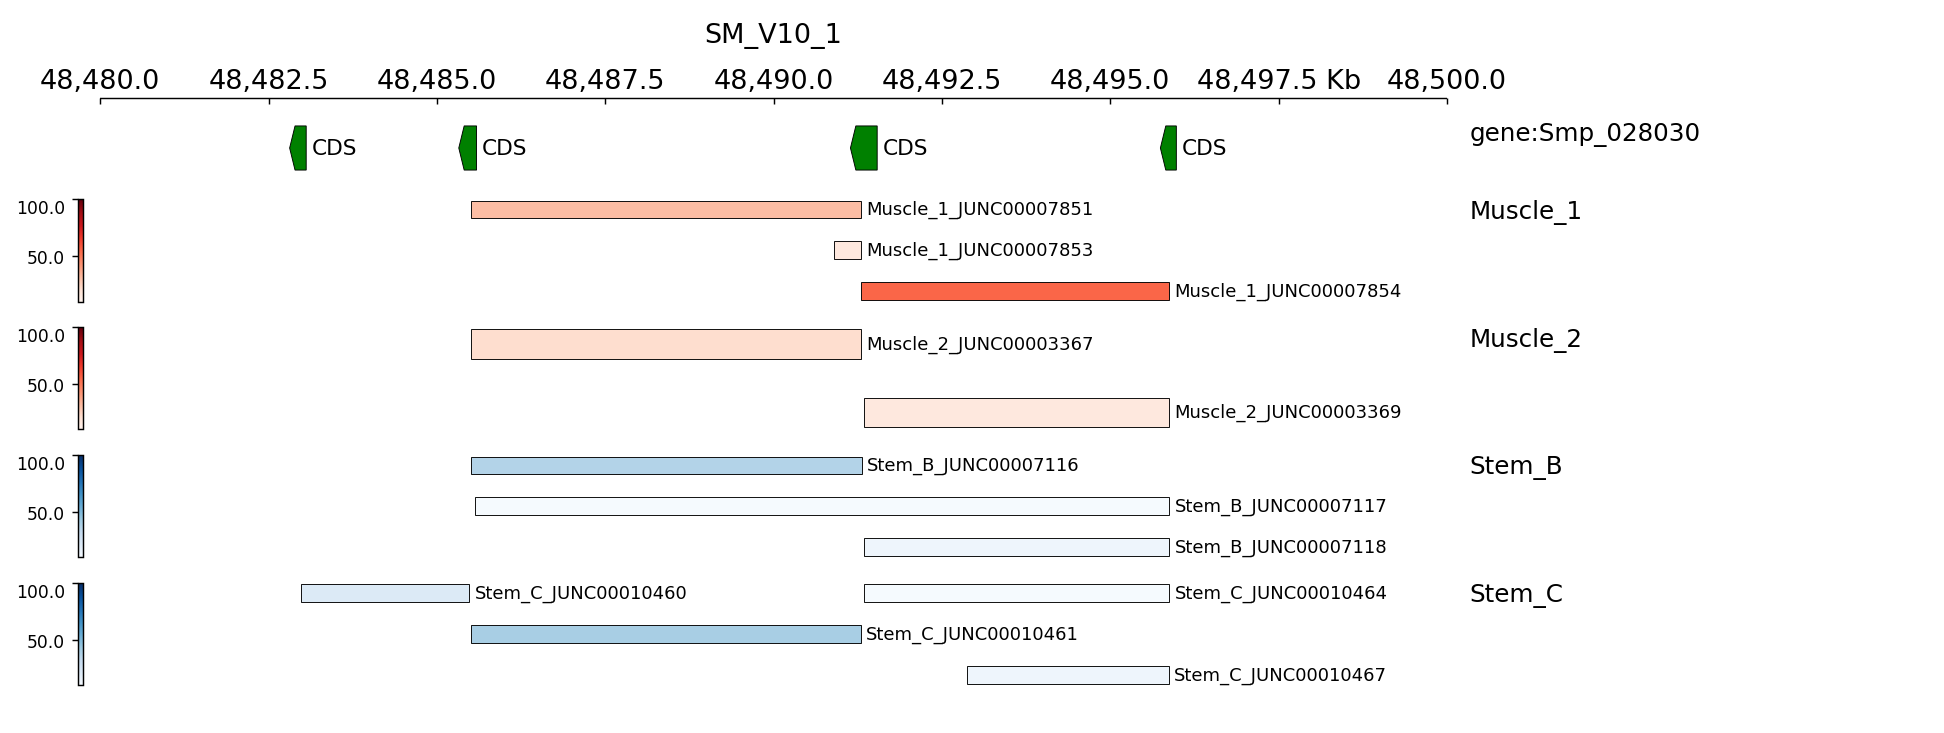
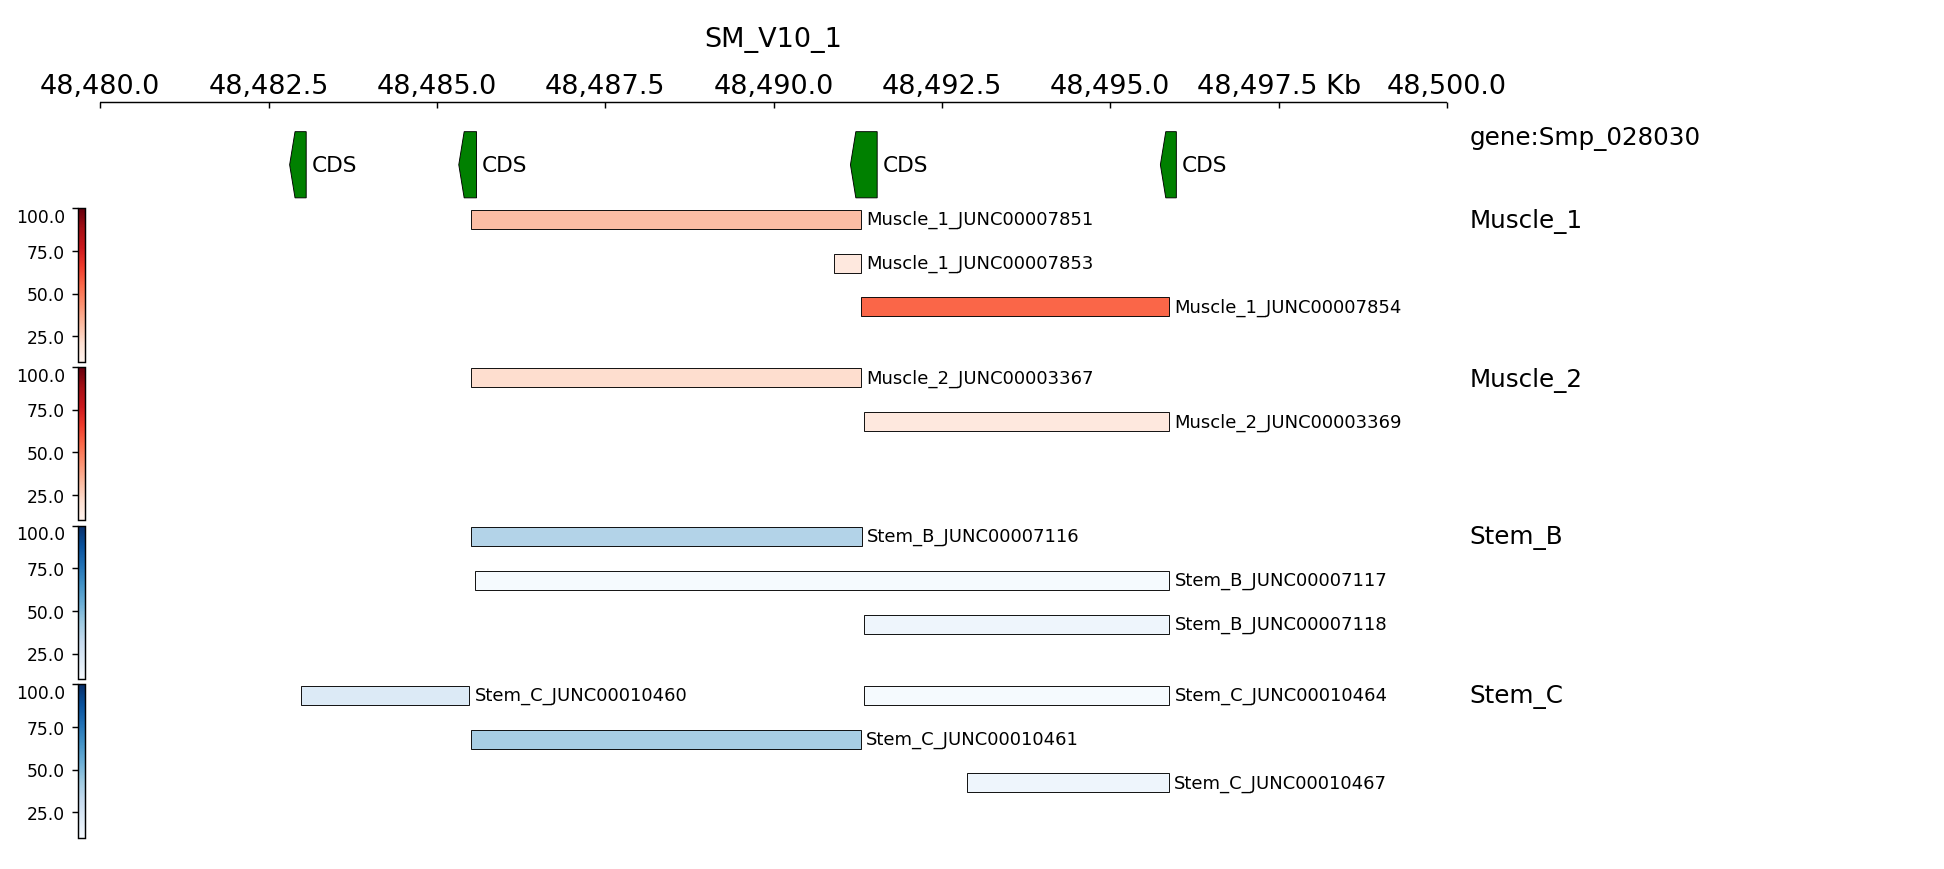
fixed gene rows in pygenometracks bed track to prevent variable height exons

diff --git a/src/python/plotting/plot_cell_types.py b/src/python/plotting/plot_cell_types.py
@@ -39,7 +39,7 @@ color = green
 border_color = black
 
 [spacer]
-height = 0.5
+height = 0.1
 
 """)
 
@@ -59,9 +59,10 @@ show_labels = true
 show_data_range = true
 min_value = {min_score}
 max_value = {max_score}
+gene_rows = 3
 
 [spacer]
-height = 0.5
+height = 0.1
 
 """)
 

diff --git a/analysis/plot_desired_bed_rendering.py b/analysis/plot_desired_bed_rendering.py
@@ -17,6 +17,7 @@ if __name__ == "__main__":
         colormaps=["Reds", "Reds", "Blues", "Blues"],
         max_score=100,
         min_score=10,
-        gene_file=gene_file
+        gene_file=gene_file,
+        height=3
     )
     TEMP_INI_PATH.unlink()
